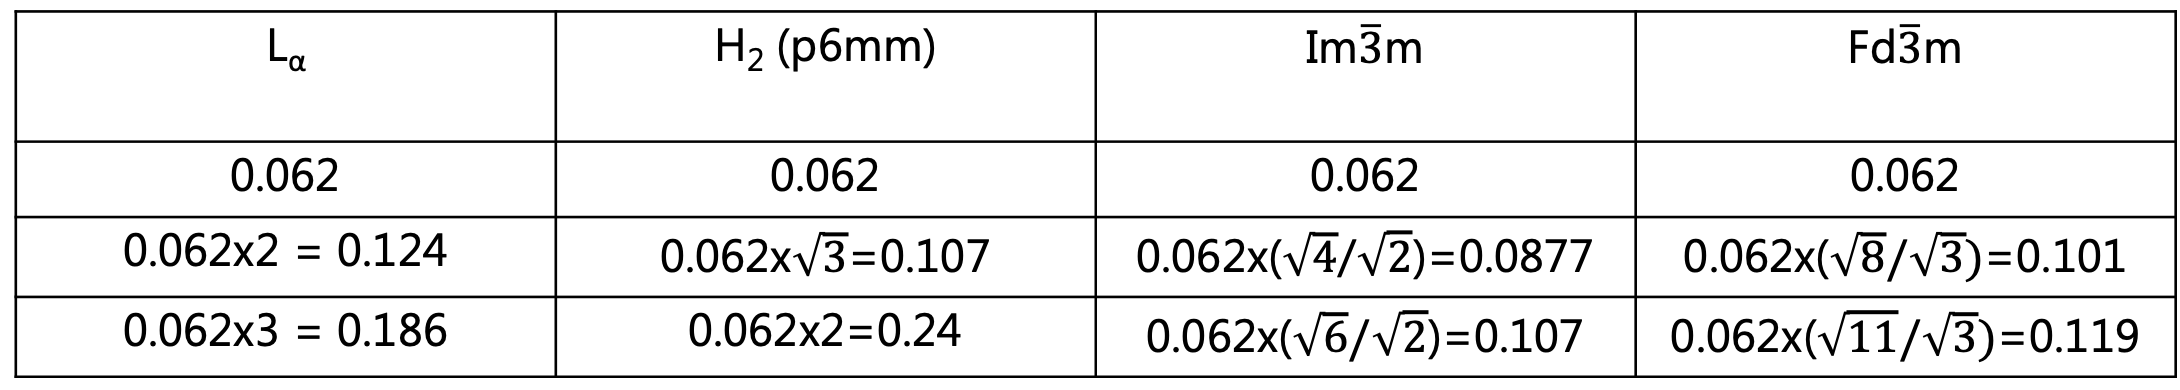
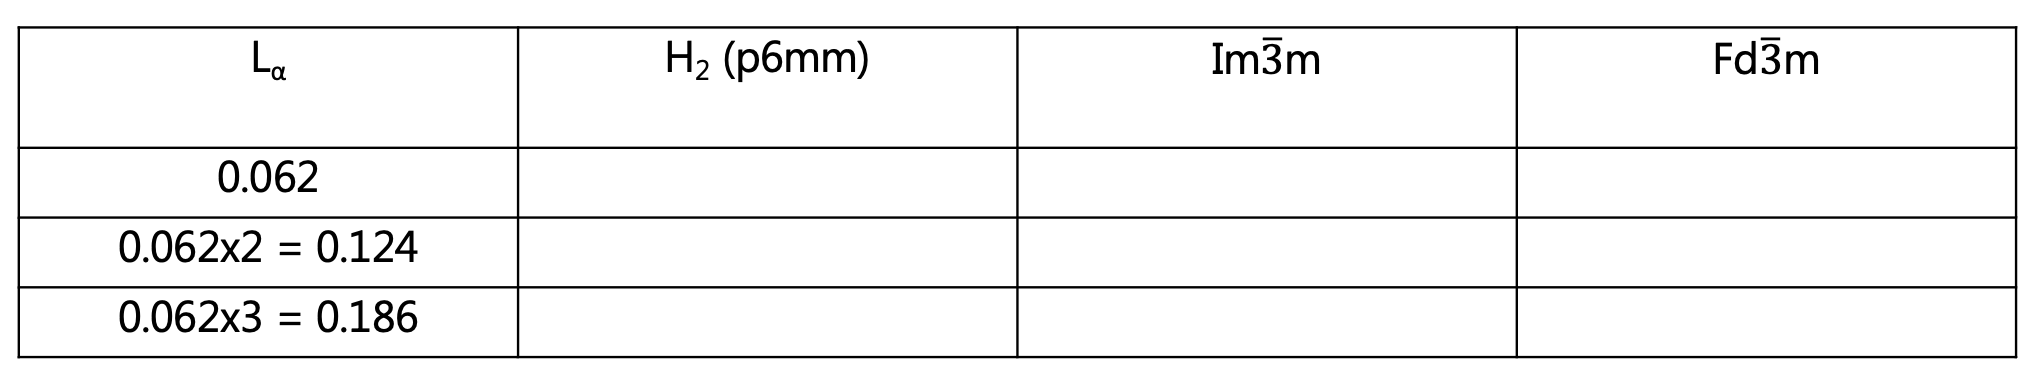
Add files via upload

Changed region(s): [[0.0, 0.0, 1.0, 0.9947], [0.124, 0.117, 0.155, 0.2048]]

diff --git a/Liquid_crystals/Liquid_crystals.html b/Liquid_crystals/Liquid_crystals.html
@@ -35,7 +35,6 @@
 At the end of this tutorial you are expected to be able to: 
 <ul>	
 	<li>Identify some of the liquid crystalline structures within soft matter research.</li>
-	<li>Identify specific liquid crystalline phases.</li>
 </ul>
 
 <h4>Introductory remarks</h4>
@@ -48,7 +47,7 @@ At the end of this tutorial you are expected to be able to:
 	<p>
 	
 	Lipids are known to form liquid crystalline phases even in the food we consume (<a href="https://doi.org/10.1021/nn405123j" target="_blank">Salentinig et al., ACS Nano 2013</a>). 
-	Small-angle scattering provides insight into specific types of phases which lipids can form.
+	Small-angle scattering techniques provide insight into specific types of phases which lipids can form.
 
 	</p>
 	Scenario: you measured a mixture of lipids at a synchrotron SAXS. Work your way through to identify which phase(s) are present in your sample.
@@ -76,7 +75,7 @@ At the end of this tutorial you are expected to be able to:
 		<img src="Table2.png" style="width:800px"/><br> 
 		<em>Table 2. Theoretical positions of Bragg peaks ($q$ values), relating to different phases, assuming first-order peak at $q=0.062$ &Aring;<sup>-1</sup>.</em>
 	</p>
-	In this case, the Im3m phase is the hit, where you have the match between the expected $q$-values and the actual positions of the diffraction peaks.<br>
+	Give a try at filling the table for the other phases. You should be able to find the Im3m phase to be the hit, where you have the match between the expected $q$-values and the actual positions of the diffraction peaks.<br>
 	</p>
 
 
@@ -89,7 +88,7 @@ In the challenges, you should identify unknown phase(s) from SAXS data (try solv
 	<em>SAXS pattern of a lipid sample B.</em>
 </p>
 	</li>
-	<li>Challenge 2. Identify the liquid phase(s) from the SAXS pattern below (<a href="hint1.html" target="_blank">first hint</a>,<a href="hint2.html" target="_blank">second hint</a>,<a href="hint3.html" target="_blank">third hint</a>).<br> 
+	<li>Challenge 2. Identify the liquid phase(s) from the SAXS pattern below (<a href="hint1.html" target="_blank">first hint</a>,<a href="hint2.html" target="_blank">second hint</a>).<br> 
 	<img src="Figure3.png" style="width:600px"/> <br>
 	<em>SAXS pattern of a lipid sample C.</em>
 </p>
